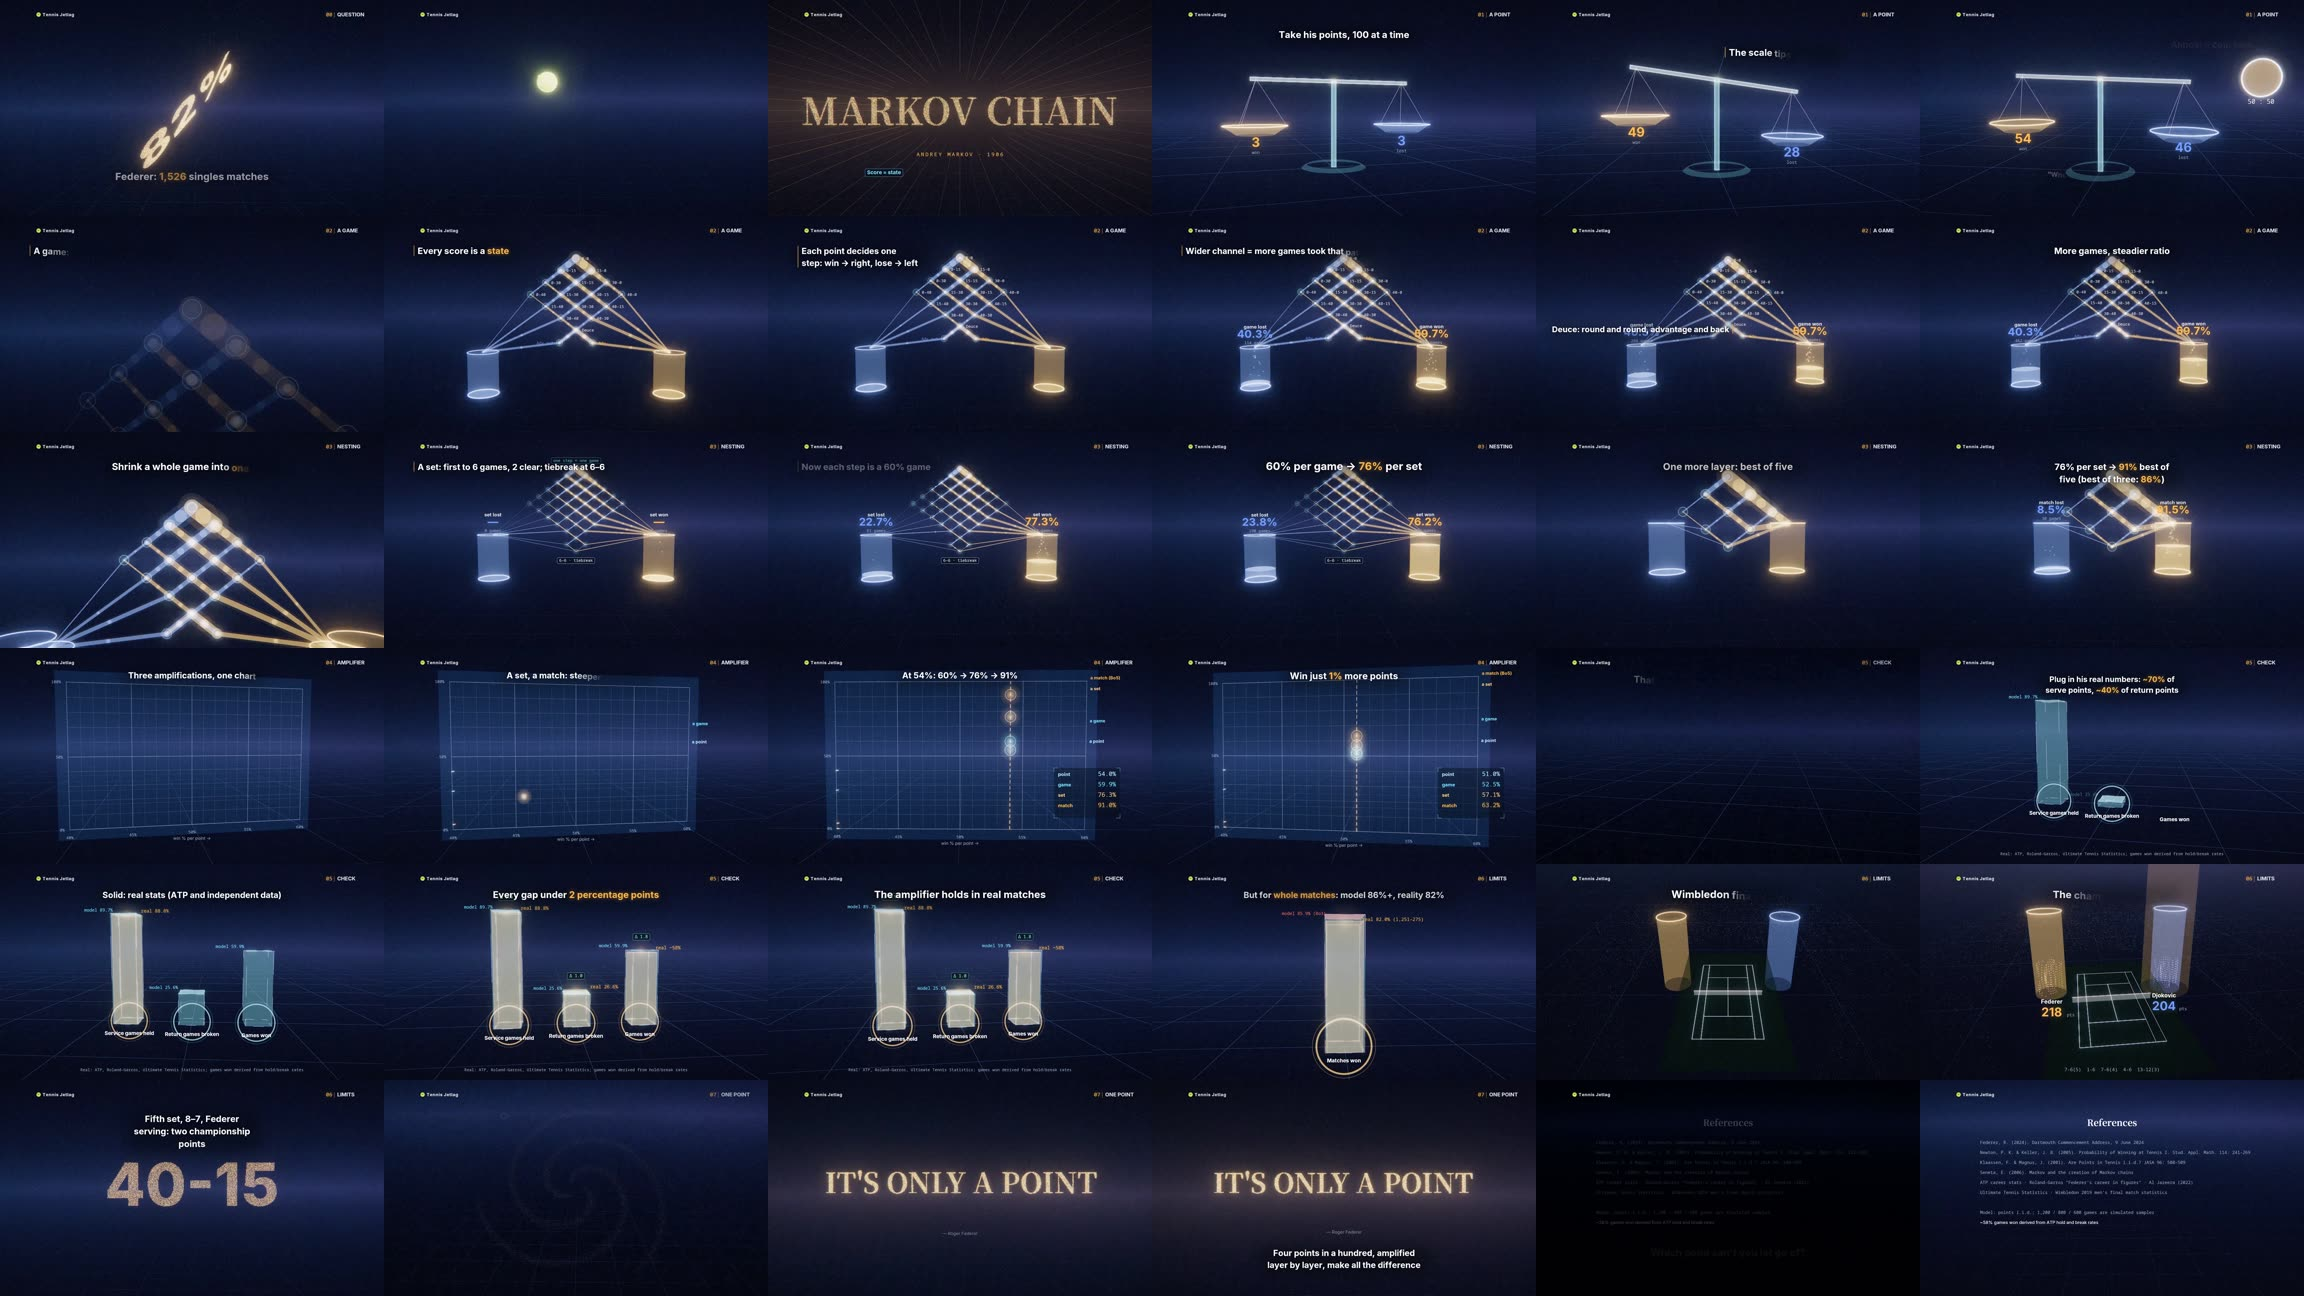
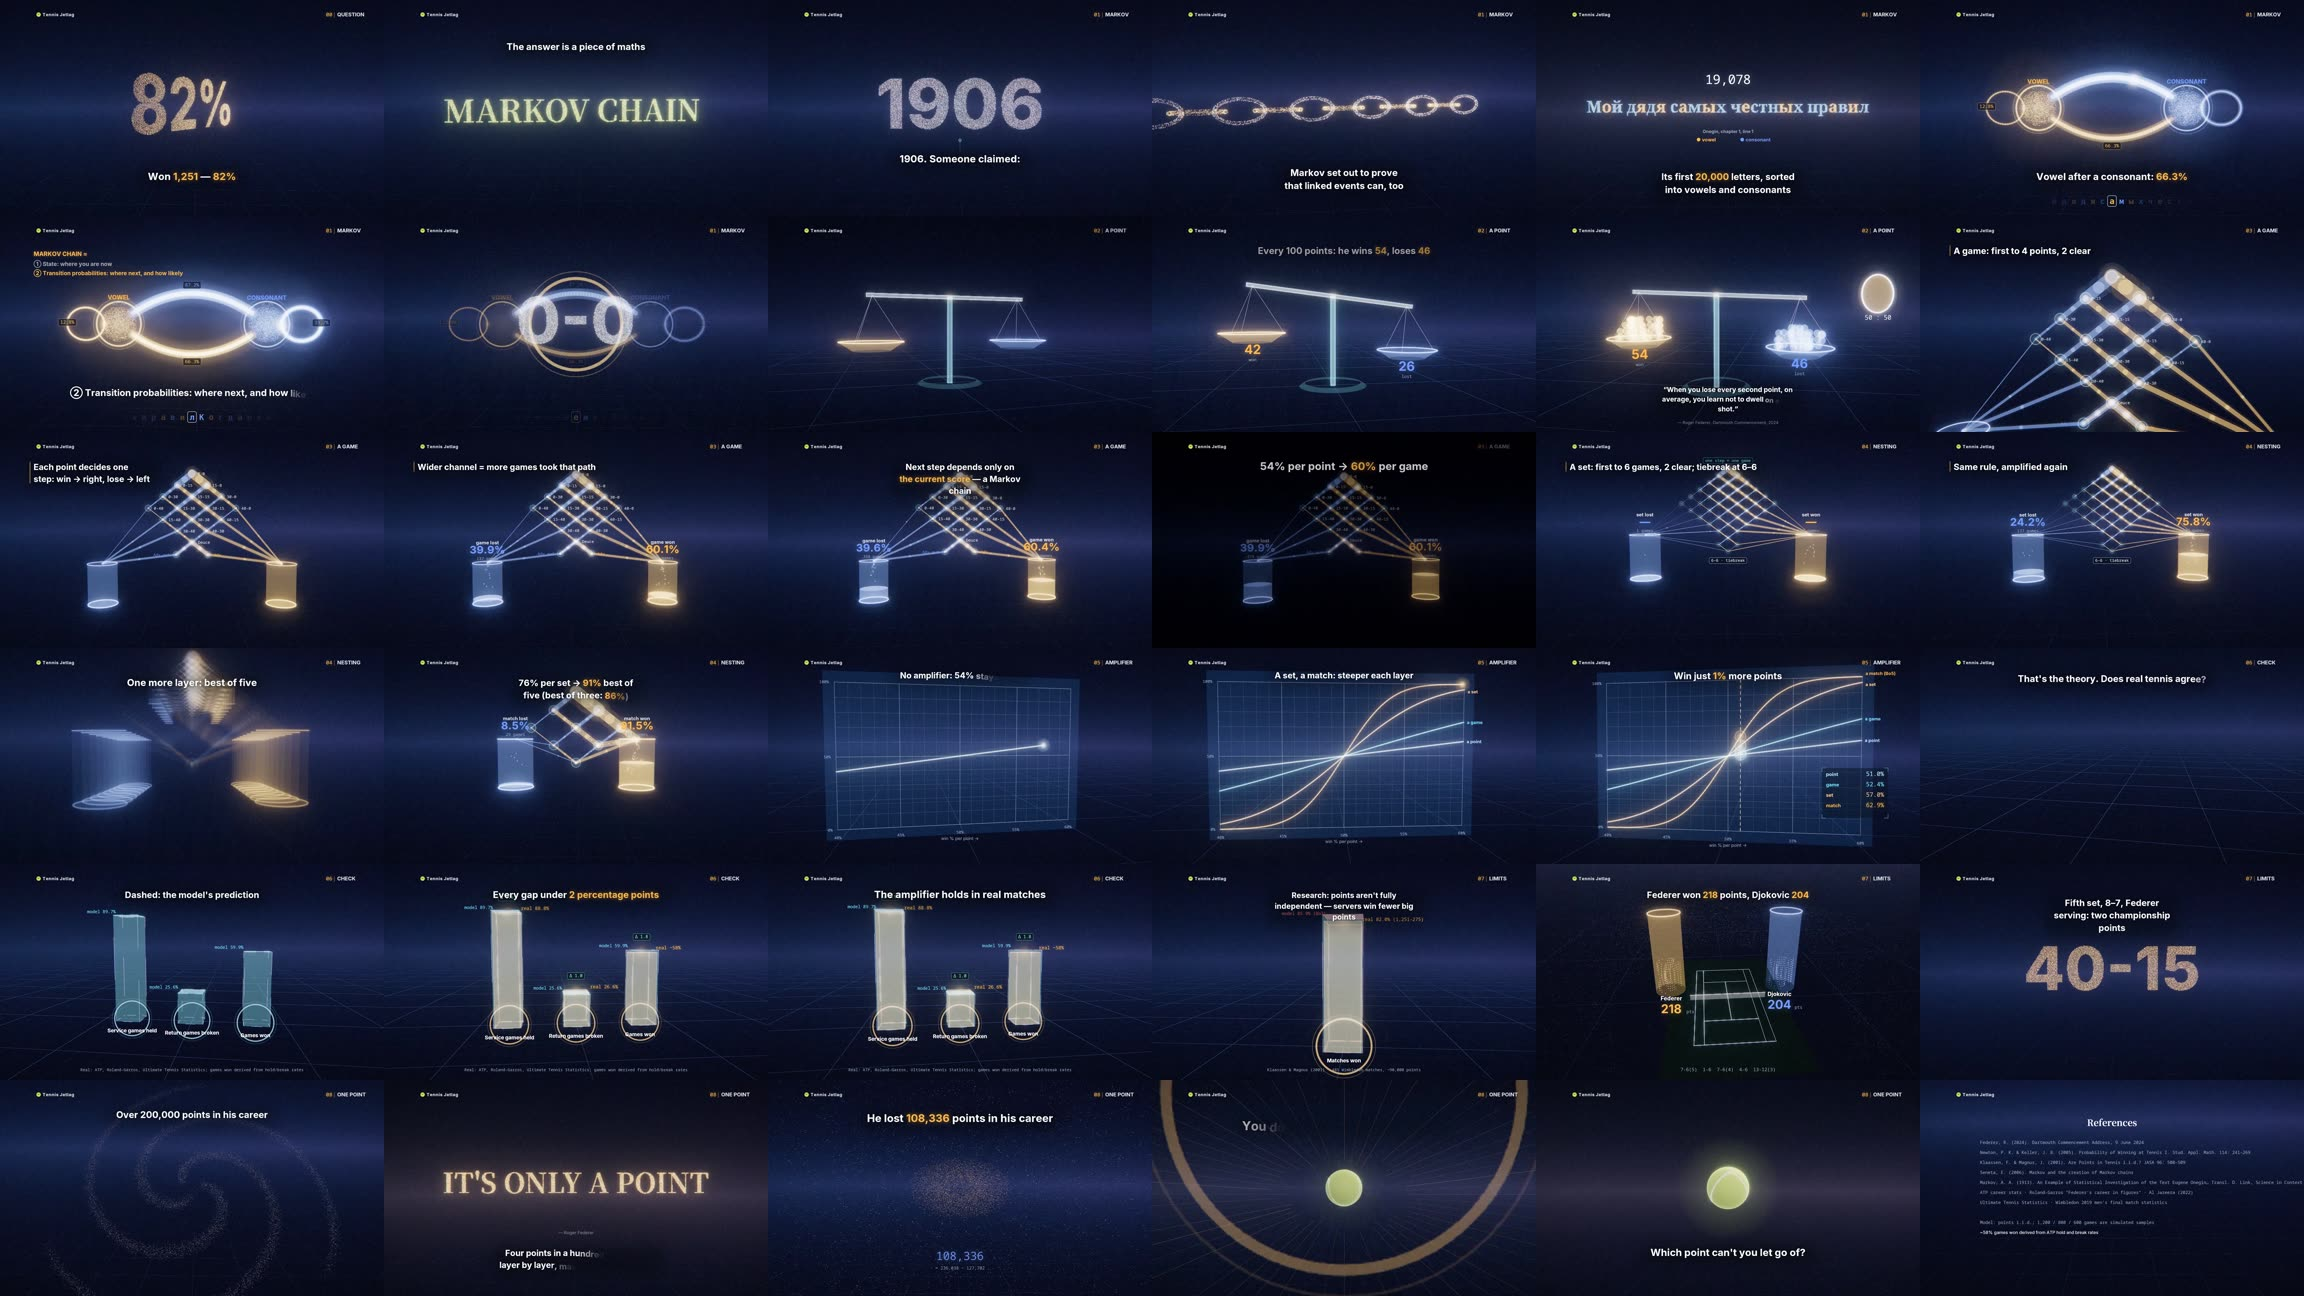
vibetennis EP04 改版出片（英文版）：补马尔可夫链介绍与片尾金句，修 S 曲线
英文版 246.3 s，QC 0 项不合格，-13.6 LUFS，推送版 193.4 MB；Release 英文附件已按登记的旧 sha256 替换。
单独合并，免得和中文版一次带两条被自动推送拒发（docs/vibetennis.md §8）。

Claude-Session: https://claude.ai/code/session_011V3sK5yxYXvgeHo64wnqUL

diff --git a/output/2026-11-01/vibetennis/vibetennis-federer-54-percent-2026-en/copy.html b/output/2026-11-01/vibetennis/vibetennis-federer-54-percent-2026-en/copy.html
@@ -248,17 +248,20 @@ textarea { display: block; width: 100%; resize: vertical; border: 1px solid var(
       <div class="label"><span>正文</span><button type="button" data-copy="body">复制正文</button></div>
       <textarea id="body" readonly>Federer won only 54% of his points. How did he win 82% of his matches?
 
-Federer played 1,526 singles matches and won 1,251 — 82%. Yet he won only 54% of his points: &quot;When you lose every second point, on average, you learn not to dwell on every shot.&quot;
+He won 1,251 of 1,526 singles matches, but only 54% of points.
 
-The answer is the scoring, a Markov chain that amplifies a small edge layer by layer:
+The answer is a Markov chain: states, transition probabilities, and one rule — only the present matters. In 1913 Andrey Markov found it in Pushkin&#x27;s Eugene Onegin: across 20,000 letters, a vowel followed a vowel only 12.8% of the time, but a consonant 66.3%.
+
+Tennis scoring is such a chain, and it amplifies a small edge layer by layer:
 54% per point → 60% per game → 76% per set → 91% best-of-five.
-Win 1% more points and best-of-five goes from 50% to 63%.
 
-With his real serve and return stats, the model predicts 89.7% of service games held and 25.6% broken. ATP: 89% and 27%.
+From his real serve and return stats the model predicts 89.7% holds and 25.6% breaks. ATP: 89% and 27%.
 
-The limit: for whole matches the model says 86%+, reality 82%. At Wimbledon 2019 he won 14 more points, held two championship points, and still lost.
+The limit: for whole matches the model says 86%+, reality 82%. At Wimbledon 2019 he won 14 more points and still lost.
 
-It&#x27;s only a point. Which point can&#x27;t you let go of?
+He lost 108,336 points in his career. But every game starts again at 0–0. You don&#x27;t have to win every point — just play the next one well after you lose one.
+
+Which point can&#x27;t you let go of?
 
 #vibetennis #vibe知识大赏 #网球时差 #Federer #tennis</textarea>
     </section>
